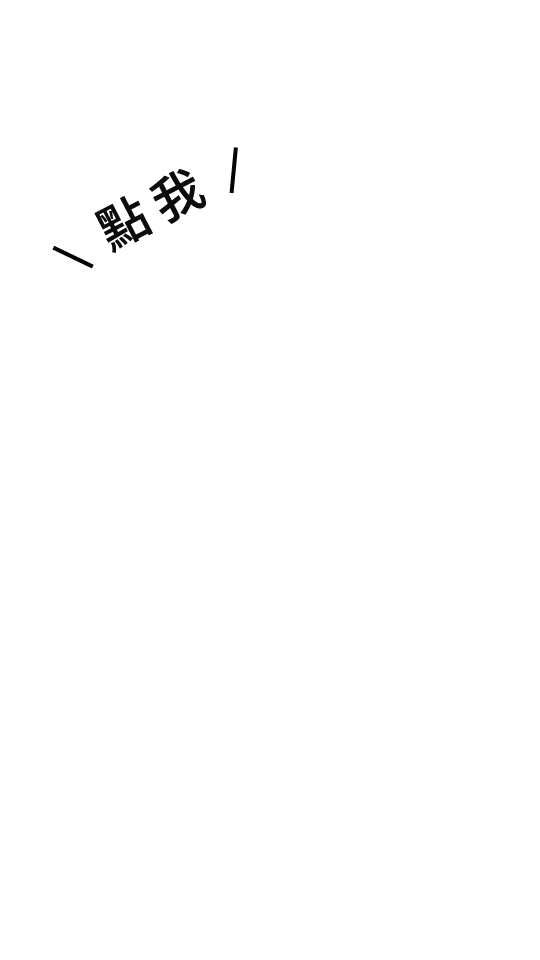
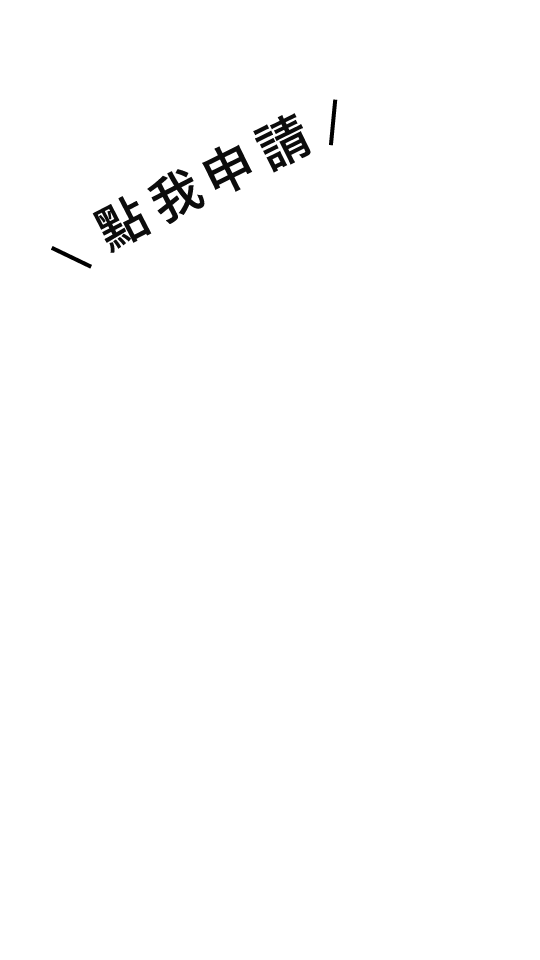
add  clickme in mobile

Changed region(s): [[0.1778, 0.125, 0.563, 0.2812], [0.0889, 0.25, 0.1778, 0.2812], [0.5926, 0.0938, 0.6222, 0.1562]]

diff --git a/scripts/main.js b/scripts/main.js
@@ -179,6 +179,20 @@ function doSomething(scrollPos) {
       lottie1HasShowed = true;
     }
   }
+  if(scrollPos <= scrollPos__applybuttonTrigger)
+    {
+      if(applybuttonHasMoved) {
+        lottie1.classList.remove("clickme");
+        applybuttonHasMoved = false;
+      }
+    }
+    else
+    {
+      if(!applybuttonHasMoved) {
+        lottie1.classList.add("clickme");
+        applybuttonHasMoved = true;
+      }
+    }
 
   // Mobile Scroll
   if(innerW < 768) {
@@ -239,25 +253,6 @@ function doSomething(scrollPos) {
     {
       bagtop = innerH*-0.2 + innerH*0.1*( (scrollPos-scrollPos__check5)/(scrollPos__bottom-scrollPos__check5) );
       bagleft = innerW*0.5 - innerW*0.1*( (scrollPos-scrollPos__check5)/(scrollPos__bottom-scrollPos__check5) );
-    }
-    
-    if(scrollPos <= scrollPos__applybuttonTrigger)
-    {
-      if(applybuttonHasMoved) {
-        lottie1.classList.remove("clickme");
-        // applybutton.classList.remove("tocenter");
-        // applybutton.classList.add("toleft");
-        applybuttonHasMoved = false;
-      }
-    }
-    else
-    {
-      if(!applybuttonHasMoved) {
-        lottie1.classList.add("clickme");
-        // applybutton.classList.remove("toleft");
-        // applybutton.classList.add("tocenter");
-        applybuttonHasMoved = true;
-      }
     }
   }
 
